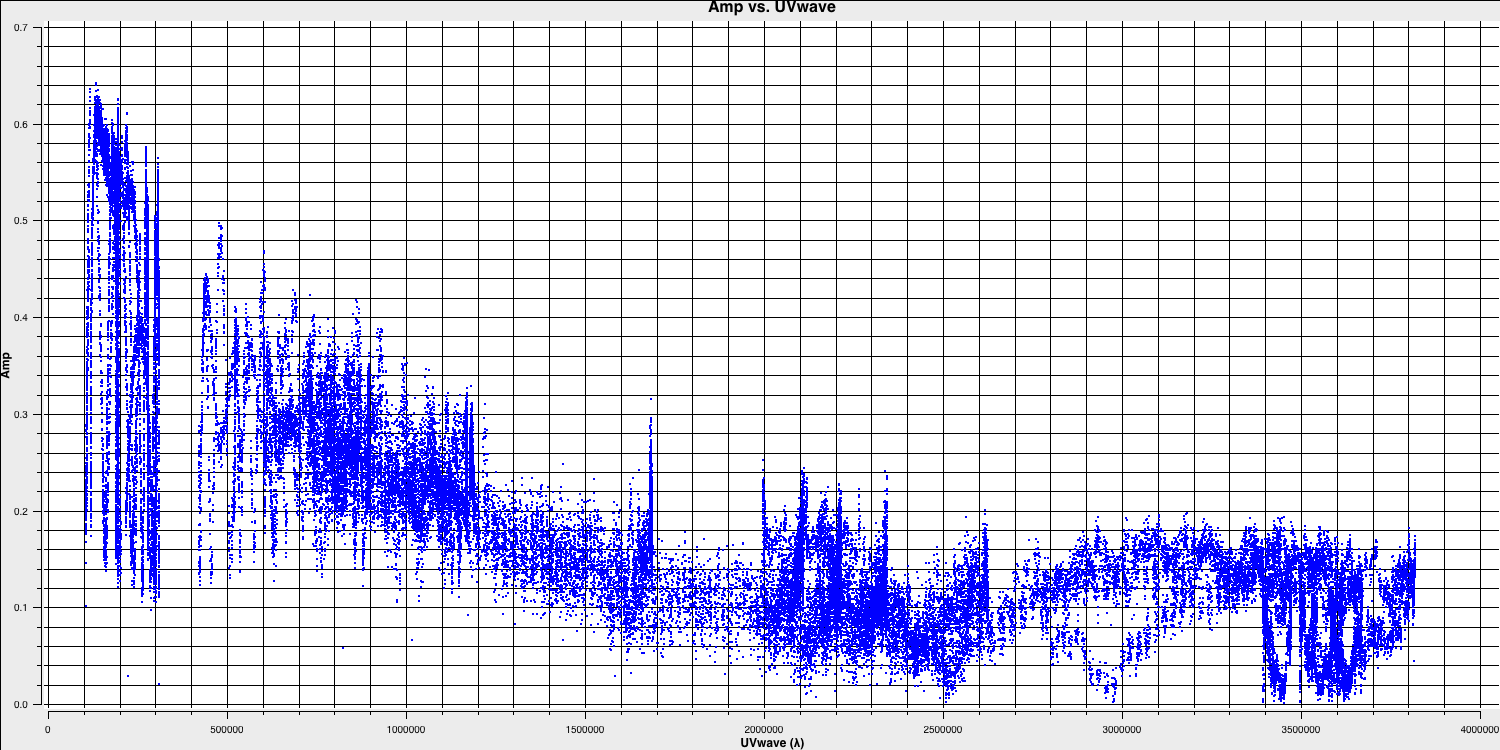
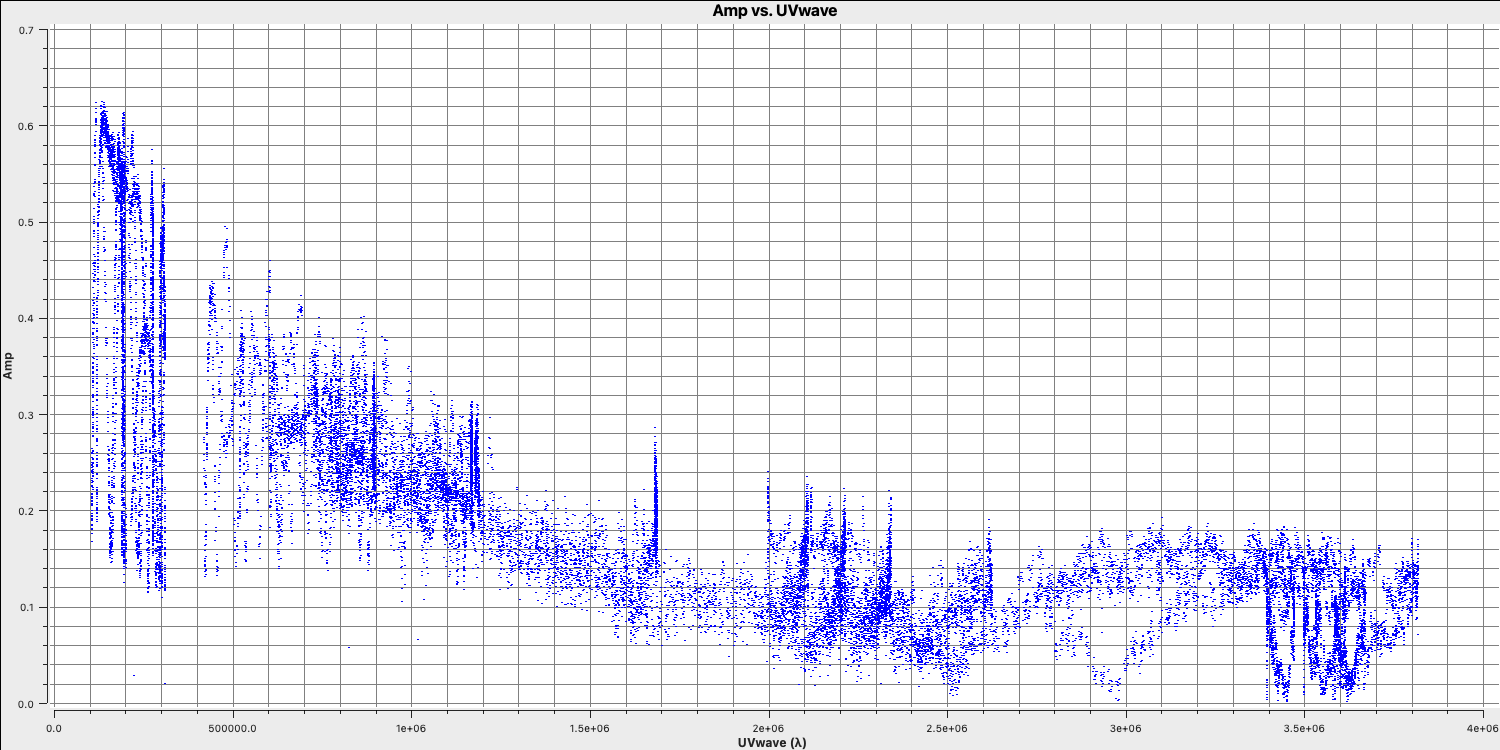
started building the imaging revamp

Changed region(s): [[0.0, 0.0, 1.0, 1.0]]

diff --git a/imaging.html b/imaging.html
@@ -54,10 +54,10 @@ onload = function(){
 							<section>
 								<h2 class="alt"><a name=""></a>Data required</h2>
 									<p>
-										For this section, it is advised to start from the pre-calibrated data (rather than your own from the calibration section). These are contained in the <code class="language-bash">ERIS24_imaging_tutorial.tar.gz</code> which you should have already downloaded. Untar this folder and ensure the following are in your current working directory,
+										For this section, it is advised to start from the pre-calibrated data (rather than your own from the calibration section). These are contained in the <code class="language-bash">ERIS24_imaging_tutorial.tar.gz</code> which you should have already downloaded. Untar this folder and enter the <code class="language-bash">ERIS24_imaging</code> folder that should have been created. Please ensure the following are in your current working directory,
 										<ol>
 											<li><code class="language-bash">1252+5634.ms</code> - measurement set containing just the 3C277.1 visibilities (this should have been created after the calibration tutorial or untar from the imaging tar bundle (see <a href="index.html#three">Home</a>)</li>
-											<li><code class="language-bash">3C277.1_imaging_outline2024.py</code> - imaging script for the next three tutorials (imaging, self-calibration and advance imaging)</li>
+											<li><code class="language-bash">3C277.1_imaging_outline2024.py</code> - imaging script for the next three tutorials (imaging, self-calibration and advanced imaging)</li>
 											<li><code class="language-bash">3C277.1_imaging_all2024.py</code> - cheat script containing the answers</li>
 										</ol>
 									</p>
@@ -115,17 +115,40 @@ onload = function(){
 								</p>
 								<p>
 									<ul>
-										<li>Take a look at step 2 and fill in the empty parameters using the information and instructions given below. <pre class="line-numbers" data-start="83"><code class="language-python">	tclean(vis=target+'.ms',
-		   imagename=target+'_1.clean',
-		   cell='**',
+										<li>Take a look at step 2 and fill in the empty parameters using the information and instructions given below.
+		   							
+								<div class="row">
+								<div class="column">
+									<b>Linux</b>
+									<pre class="line-numbers" data-start="91"><code class="language-python">	tclean(vis=target+'.ms',
+		   imagename=target_n+'_1.clean',
+		   specmode='mfs',
 		   niter=1500,
 		   cycleniter=300,
+		   threshold=0,
 		   imsize=['**','**'],
+		   cell='**',
 		   weighting='**',
 		   deconvolver='**',
 		   savemodel='modelcolumn',
-		   interactive=True)</code></pre></li>
-		   							</ul>
+		   interactive=True)</code></pre>
+								</div>
+								<div class="column">
+									<b>Mac OS</b>
+									<pre class="line-numbers" data-start="103"><code class="language-python">	run_iclean(vis=target+'.ms',
+			   imagename=target_n+'_1.clean',
+			   specmode='mfs',
+			   niter=1500,
+			   cycleniter=300,
+			   threshold=0,
+			   imsize=[256,256],
+			   cell='0.012arcsec',
+			   weighting='natural',
+			   deconvolver='clark',
+			   savemodel='modelcolumn')</code></pre>
+								</div>
+								</div>
+					  			</li></ul>
 		   						</p>
 								<p>
 									There some things that we always need to decide and set when imaging which are:
@@ -134,11 +157,11 @@ onload = function(){
 										<li><code class="language-python">field</code> - this is the name of the field that you want to observe and again is self-explanatory.</li>
 										<li><code class="language-python">cell</code> - this is the angular size of each pixel in our output image. To estimate this, we need to determine the resolution of our interferometer. We can do this by looking at the $uv$ distance (i.e. the radial distance of measurements in the $uv$ plane). This is done in step 1 of your <code class="language-bash">3C277.1_imaging_outline2024.py</code> script. 
 										<ul>
-											<li>Either execute step 1 or use the following commands,<pre class="line-numbers" data-start="60"><code class="language-python">	plotms(vis='1252+5634.ms',
+											<li>Either execute step 1 or use the following commands,<pre class="line-numbers" data-start="67"><code class="language-python">	plotms(vis='1252+5634.ms',
 		   xaxis='uvwave',
 		   yaxis='amp',
 		   correlation='RR',
-		   avgchannel='64',
+		   avgchannel='16',
 		   spw='3',
 		   showmajorgrid=True,
 		   showminorgrid=True,

diff --git a/assets/css/main.css b/assets/css/main.css
@@ -46,6 +46,10 @@ blockquote, q {
 		content: none;
 	}
 
+.column {
+		flex: 50%;
+		padding: 10px}
+
 table {
 	border-collapse: collapse;
 	border-spacing: 0;
